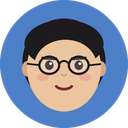
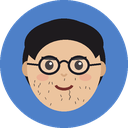
Shorter beard for Аслан, sparse stubble for Имран
Аслан's beard starts lower and is clipped to the face's own outline, so
it runs exactly along the jaw. Имран gets a few short hairs scattered
along the jaw and chin, drawn from a fixed seed so the face is stable.

Claude-Session: https://claude.ai/code/session_01VVyC4KaHFkdZjDhihxHS3w

diff --git a/tool/generate_avatars.py b/tool/generate_avatars.py
@@ -18,6 +18,7 @@ Requires Pillow.
 """
 import argparse
 import os
+import random
 
 from PIL import Image, ImageChops, ImageDraw
 
@@ -42,7 +43,7 @@ PEOPLE = [
     ('azamat', (196, 160, 92, 255), BLACK_HAIR, 1.0, 'long', False, 0.86, 0.44),
     ('aslan', (74, 150, 140, 255), BLACK_HAIR, 0.78, 'short', False, 1.0, 0.53),
     ('muhammad', (132, 102, 176, 255), BROWN_HAIR, 1.0, 'medium', True, 1.0, 0.52),
-    ('imran', (78, 128, 200, 255), BLACK_HAIR, 0.96, None, True, 1.0, 0.53),
+    ('imran', (78, 128, 200, 255), BLACK_HAIR, 0.96, 'sparse', True, 1.0, 0.53),
 ]
 
 # How much of the hair colour shows through each beard. Stubble is the same
@@ -79,11 +80,11 @@ def face(background, hair, width, beard, glasses, size, centre):
     eye_y = cy - ry * 0.06
     eye_dx = rx * 0.40
 
-    if beard:
+    if beard and beard != 'sparse':
         top, depth = {
             'long': (0.16, ry + S * 0.16),
             'medium': (0.18, ry + S * 0.035),
-            'short': (0.24, ry * 0.76),
+            'short': (0.30, ry * 0.70),
             'stubble': (0.26, ry * 0.76),
         }[beard]
         by = cy + ry * top
@@ -113,10 +114,9 @@ def face(background, hair, width, beard, glasses, size, centre):
         alpha = layer.getchannel('A').point(lambda a: int(a * opacity))
         if beard in JAW_BEARDS:
             # A short beard grows on the face, never past it: clip to the
-            # jaw, with a little room below the chin.
+            # face's own outline.
             jaw = Image.new('L', (S, S), 0)
-            ellipse(ImageDraw.Draw(jaw), cx, cy + ry * 0.03, rx, ry * 1.03,
-                    fill=255)
+            ellipse(ImageDraw.Draw(jaw), cx, cy, rx, ry, fill=255)
             alpha = ImageChops.multiply(alpha, jaw)
         layer.putalpha(alpha)
         image.alpha_composite(layer)
@@ -127,6 +127,30 @@ def face(background, hair, width, beard, glasses, size, centre):
             ellipse(cheek_draw, cx + side * rx * 0.58, cy + ry * 0.22,
                     rx * 0.16, ry * 0.08, fill=CHEEK)
         image.alpha_composite(cheeks)
+
+    if beard == 'sparse':
+        # A few short hairs scattered along the jaw and chin: very sparse
+        # stubble. Seeded, so every run draws the same face.
+        rng = random.Random(7)
+        hairs = Image.new('RGBA', (S, S), (0, 0, 0, 0))
+        hd = ImageDraw.Draw(hairs)
+        colour = hair[:3] + (150,)
+        placed = 0
+        while placed < 26:
+            x = cx + rng.uniform(-1, 1) * rx * 0.92
+            y = cy + rng.uniform(0.22, 0.95) * ry
+            inside = ((x - cx) / rx) ** 2 + ((y - cy) / ry) ** 2 < 0.86
+            near_mouth = abs(x - cx) < rx * 0.32 and abs(y - (cy + ry * 0.38)) < ry * 0.12
+            near_cheek = (abs(abs(x - cx) - rx * 0.58) < rx * 0.2
+                          and abs(y - (cy + ry * 0.22)) < ry * 0.1)
+            if not inside or near_mouth or near_cheek:
+                continue
+            tilt = rng.uniform(-0.5, 0.5)
+            length = S * 0.016
+            hd.line((x, y, x + length * tilt, y + length), fill=colour,
+                    width=max(1, int(S * 0.006)))
+            placed += 1
+        image.alpha_composite(hairs)
 
     # Smile.
     draw.arc((cx - rx * 0.26, cy + ry * 0.24, cx + rx * 0.26, cy + ry * 0.52),
